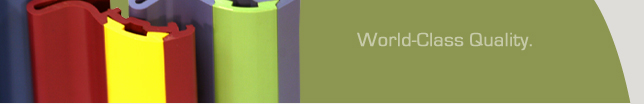
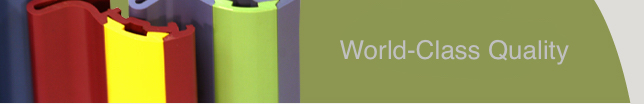
style changes

Changed region(s): [[0.528, 0.3173, 0.9006, 0.6058]]

diff --git a/css/main.css b/css/main.css
@@ -53,18 +53,15 @@ NAVIGATION
 
 
 #cologo {
-  max-width: 30%;
+  max-width: 100px;
   float: left;
 }
 
 #logo h1 {
   font-size: 2.5em;
   font-weight: bold;
-  background: grey;
-  padding: 25px; 
-  border-top-right-radius: 90px;
-  border-bottom-right-radius: 90px;
-  margin: 0;
+  margin: 10px;
+  
 }
 
 nav ul {
@@ -82,7 +79,7 @@ nav li {
 nav a {
   font-weight: bold;
   color: #7D1D3F;
-  font-size: 3em;
+  font-size: 2.5em;
   display: block;
 }
 
@@ -91,9 +88,9 @@ nav a {
 .nav_button {
   background: light-grey;
   border-radius: 10px;
-  box-shadow: 10px 10px 10px 2px;
+  box-shadow: 5px 5px 5px 1px;
   width: 80%;
-  height: 70px;
+  height: 60px;
 }
 
 
@@ -125,6 +122,37 @@ BODY
   margin: 15px 0 15px 0; 
 }
 
+.contact-info {
+  border-bottom: 5px solid grey;
+  margin-bottom: 40px;
+  margin-top: -20px;
+  line-height: 1.5em;
+  border-radius: 5px;
+  background-color: #C7CCDB;
+  padding: 10px;
+}
+#quote_button {
+  border-radius: 10px;
+  background: light-grey;
+  margin: 20px 0 0 75px;
+  width: 60%;
+  height: 60px;
+  box-shadow: 5px 5px 5px 1px;
+
+}
+#quote_link {
+  color: #7D1D3F;
+  font-weight: bold;
+  font-size: 1.1em;
+}
+#bullets {
+  border: 2px solid grey;
+  border-radius: 5px;
+  margin: 20px;
+  padding: 15px 20px 15px 0px;
+  background-color: #C7CCDB;
+}
+
 /***********************
 FOOTER
 ***********************/
@@ -134,9 +162,10 @@ footer {
   text-align: center;
   border-top-left-radius: 15px;
   border-top-right-radius: 15px;
-  margin: 0 auto;
+  margin-top: 30px;
   display: block;
   background: grey;
+  padding: 10px 0 0 0;
 }
 
 .foot_nav {
@@ -155,9 +184,11 @@ color: #7D1D3F;
 
 .social_button {
   max-width: 40px;
-  display: inline-block;
-  margin:15px 0 15px 25px;
+  display: inline;
+  text-align: center;
+  margin: 10px;
 }
+
 
 /*******************
 CONTACT FORM
@@ -169,14 +200,9 @@ CONTACT FORM
 }
 
 input[type="text"],
-input[type="password"],
-input[type="date"],
-input[type="datetime"],
 input[type="email"],
 input[type="number"],
-input[type="search"],
 input[type="tel"],
-input[type="time"],
 input[type="url"],
 textarea,
 select {
@@ -205,7 +231,7 @@ fieldset {
   max-width: 90%;
   margin: 10px auto;
   padding: 40px 20px;
-  background: #4F646F;
+  background: #C7CCDB;
   border-radius: 10px;
   border-width:10px;	
   border-style:outset;
@@ -216,12 +242,6 @@ label {
   margin-bottom: 8px;
 }
 
-label.light {
-  font-weight: 300;
-  display: inline;
-}
-
-
 @media screen and (min-width: 480px) {
 
   form {
@@ -231,8 +251,25 @@ label.light {
 }
 
 #submit_form {
-  display: block;
-  margin-left: 30px;
+  background: light-grey;
+  border-radius: 10px;
+  box-shadow: 5px 5px 5px 1px;
   width: 80%;
-  height: 50px;  
+  height: 60px;
+  display: block;
+  margin: 0 0 0 25px;
 }
+
+#submit {
+  font-size: 1.2em;
+  color: black;
+}
+
+
+
+
+
+
+
+
+

diff --git a/about.html b/about.html
@@ -60,21 +60,40 @@
         <p>With locations throughout the nation, we have the manpower to handle your project and to deliver it on time - all the time.</p>
 
         <p>From agriculture to automotive, our team offers a wide variety of expertise and experience in providing world-class quality custom extruded products.</p>
+        <div id="bullets">
+          <ul>
+            <li>We have been in business since 1975.</li>
+            <li>We have been recognized as one of the "Top 150 Profile Extruders in North America" - 13 Years in a row!</li>
+            <li>We have been featured in Plastics News with our innovative, business-related news.</li>
+            <li>We are continually named "Supplier of the Year" by clients, including our Fortune 500 customers.</li>
+          </ul>
+        </div>  
 
-        <ul>
-          <li>We have been in business since 1975.</li>
-          <li>We have been recognized as one of the "Top 150 Profile Extruders in North America" - 13 Years in a row!</li>
-          <li>We have been featured in Plastics News with our innovative, business-related news.</li>
-          <li>We are continually named "Supplier of the Year" by clients, including our Fortune 500 customers.</li>
-        </ul>   
-
+      <p><button id="quote_button"><a id="quote_link" href="contact.html">Request a Free Quote.</a></button></p>
+      
     </body>
 
     <footer class="foot">
-      <a href="locations.html" class="foot_nav"><b>Locations</b></a>
+ 
+      
+      <a href="index.html" class="foot_nav"><b>Home</b></a>
       <a href="About.html" class="foot_nav"><b>About</b></a>
       <a href="Contact.html" class="foot_nav"><b>Contact</b></a><br>
-      <p id="foot_note">Website built by Micheal Emerson 2015.</p>
+      
+      
+      
+
+     <a href="facebook.com" class="social_link">
+            <img src="pic/facebookbutton.jpeg" class="social_button" alt="facebook">
+          </a>
+            <a href="twitter.com" class="social_link">
+              <img src="pic/twitterbutton2.jpeg" class="social_button" alt="twitter">
+          </a>
+          <a href="linkedin.com" class="social_link">
+          <img src="pic/linkedin.jpg" class="social_button" alt="linkedin">
+          </a>
+     <p id="foot_note">Copyright 2015. Micheal Emerson</p>
+
 
     </footer>
   </div> 

diff --git a/contact.html b/contact.html
@@ -28,6 +28,20 @@
 
 
     <body>
+      <img id="contact-pic" src="pic/productsmain.jpg">
+      
+      
+      <div class="contact-info">
+        <h1>Contact Us</h1>
+        <p>Address: 8301 Cane Run Rd.<br> Louisville, Ky 40258</p>
+        <p>Phone: 555-555-5555</p>
+        <p>Email: preferred@preferredplastics.com</p>
+      </div>
+        
+      <p>Making sure that your needs are being met is our number one priority. We're always happy and ready to help.</p>
+      
+
+      
       
       <h2 id="quote">Request A Free Quote Today!</h2>
       <p id="required_field">* Required Field</p>
@@ -59,7 +73,7 @@
           <label for="comments">Comments:</label>        
           <textarea id="comment" name="Comments"></textarea>
 
-          <button type="submit" id="submit_form">Get Quote</button>
+         <p id="submit_text"><button type="submit" id="submit_form"><a id="submit" href="index.html" >Get Quote</a></button></p>
 
 
         </fieldset>   
@@ -75,10 +89,27 @@
   </body>
       
   <footer class="foot">
-      <a href="locations.html" class="foot_nav"><b>Locations</b></a>
+
+      
+      <a href="index.html" class="foot_nav"><b>Home</b></a>
       <a href="About.html" class="foot_nav"><b>About</b></a>
       <a href="Contact.html" class="foot_nav"><b>Contact</b></a><br>
-      <p id="foot_note">Website built by Micheal Emerson 2015.</p>
-  </footer> 
+      
+      
+      
+
+     <a href="facebook.com" class="social_link">
+            <img src="pic/facebookbutton.jpeg" class="social_button" alt="facebook">
+          </a>
+            <a href="twitter.com" class="social_link">
+              <img src="pic/twitterbutton2.jpeg" class="social_button" alt="twitter">
+          </a>
+          <a href="linkedin.com" class="social_link">
+          <img src="pic/linkedin.jpg" class="social_button" alt="linkedin">
+          </a>
+     <p id="foot_note">Copyright 2015. Micheal Emerson</p>
+
+
+    </footer> 
   </div>    
 </html>      

diff --git a/index.html b/index.html
@@ -62,16 +62,14 @@
       </ul>
       <br>
 
-      <p>We take pride in the integrity of our people, products, and services. Please give us an opportunity to quote your next custom extrusion project by <a href="quote.html">Requesting a Free Quote.</a>    </p>
-      
+      <p>We take pride in the integrity of our people, products, and services. Please give us an opportunity to quote your next custom extrusion project.</p>
+      <p><button id="quote_button"><a id="quote_link" href="contact.html">Request a Free Quote.</a></button></p>
 
     </body>
 
     <footer class="foot">
       
-      <hr>
-      
-      <a href="locations.html" class="foot_nav"><b>Locations</b></a>
+      <a href="index.html" class="foot_nav"><b>Home</b></a>
       <a href="About.html" class="foot_nav"><b>About</b></a>
       <a href="Contact.html" class="foot_nav"><b>Contact</b></a><br>
       
